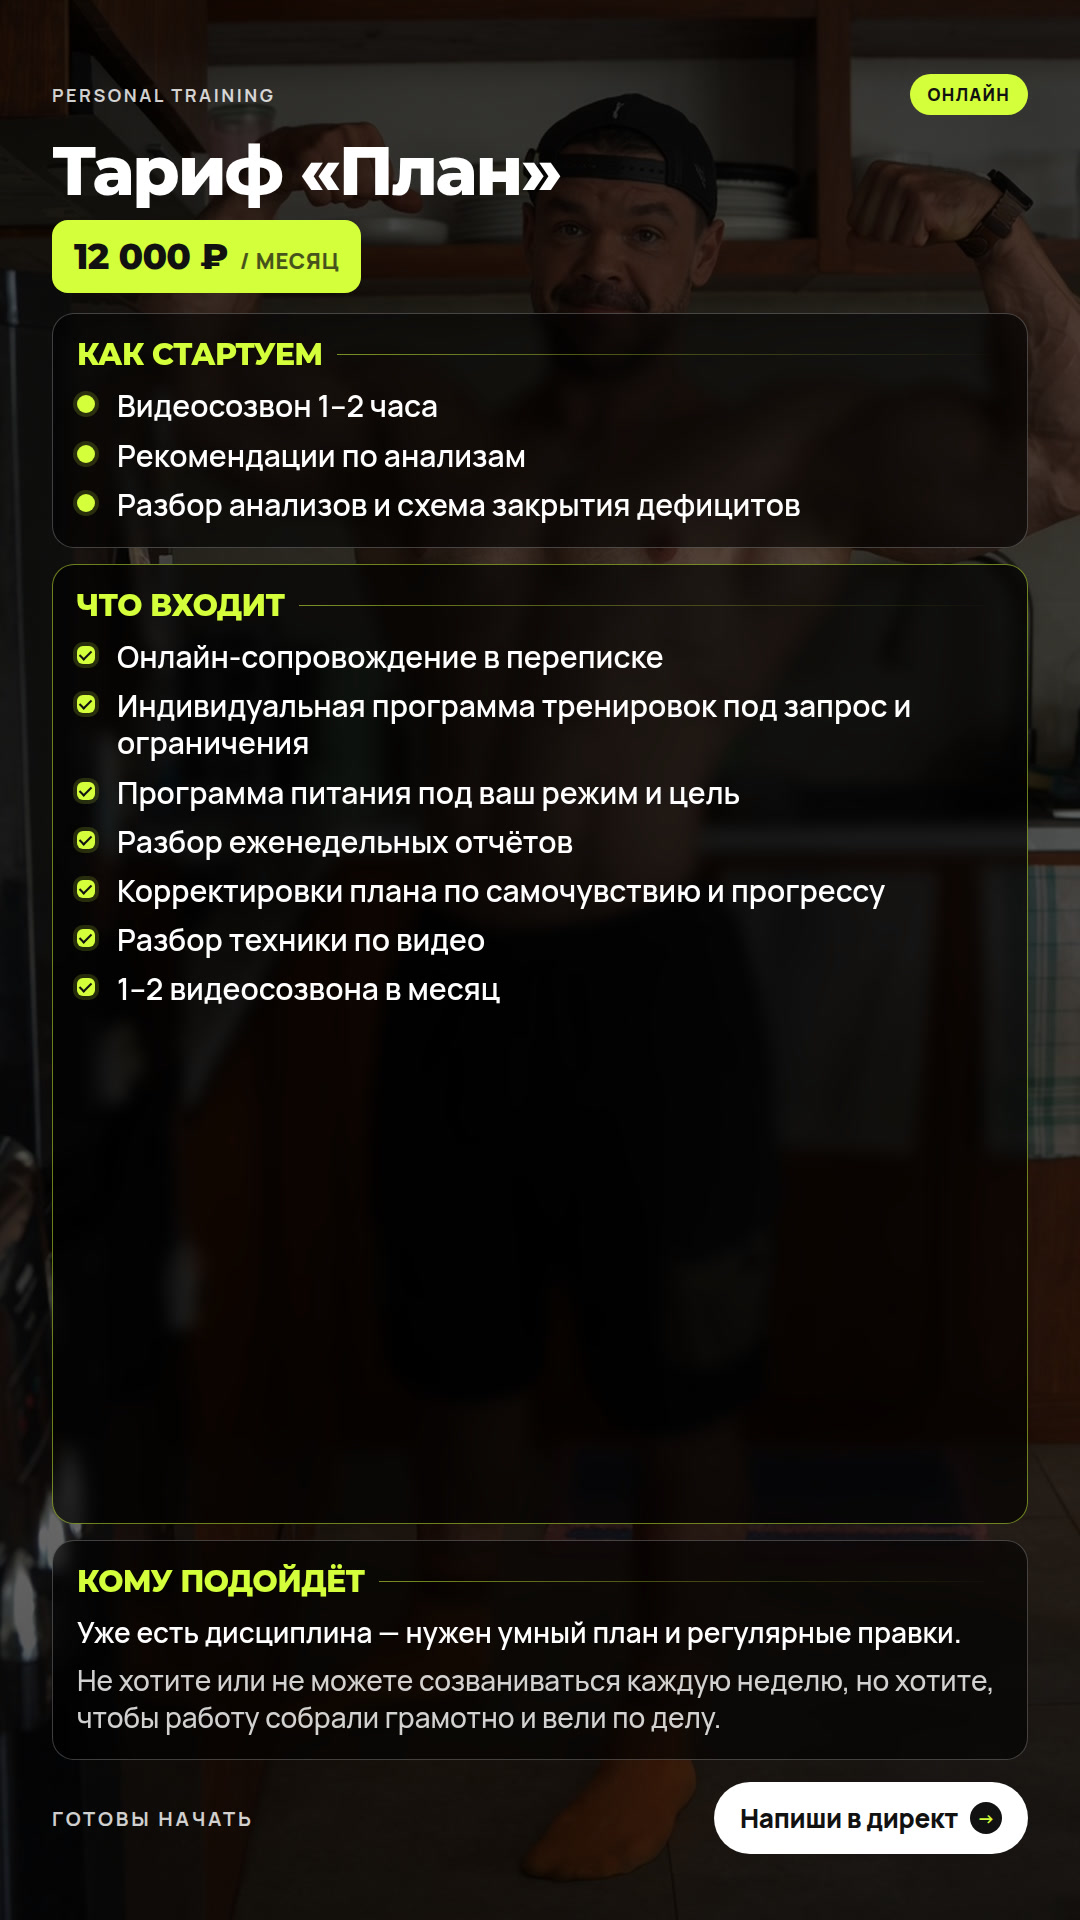
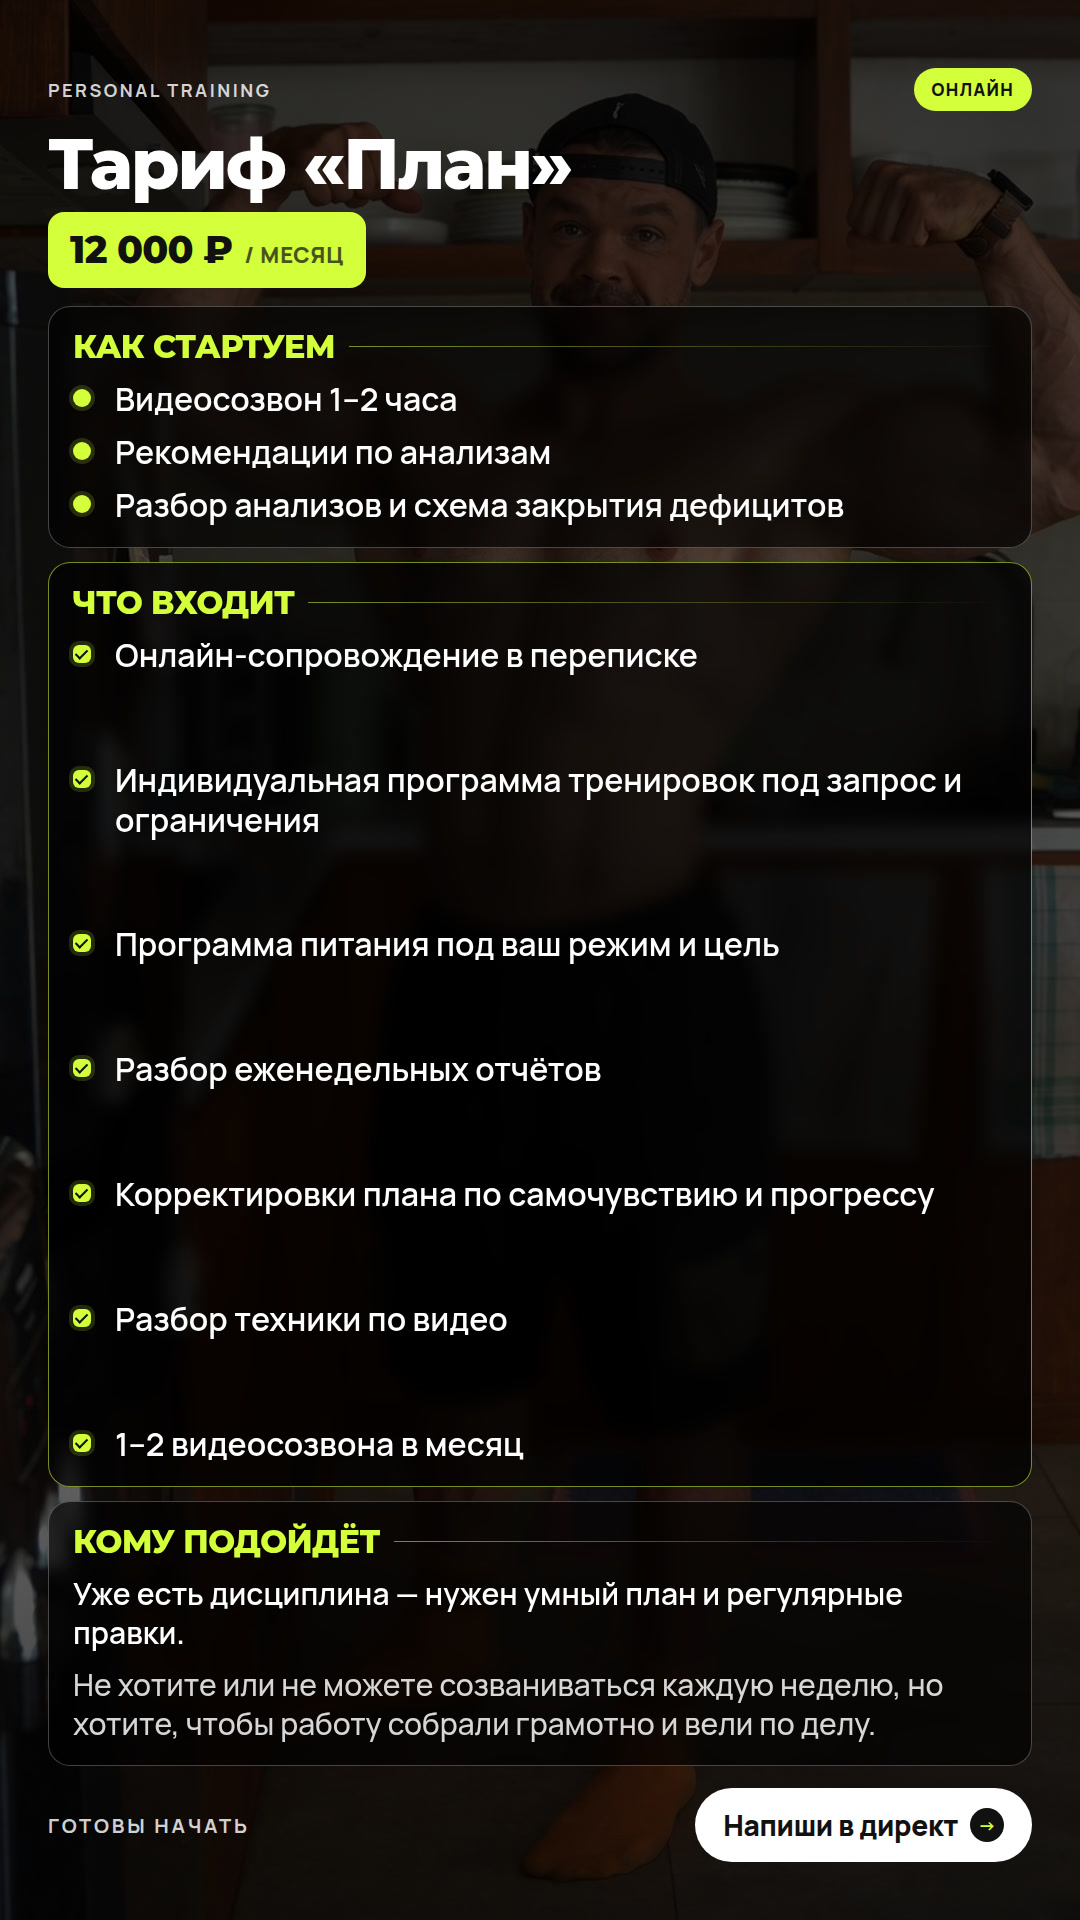
Tighten Plan story spacing with larger type
Distribute leftover vertical space across list items and bump body size
so empty card regions and footer gaps no longer look unused.

diff --git a/stories/tarif-plan.html b/stories/tarif-plan.html
@@ -8,11 +8,11 @@
   <style>
     :root {
       --text: #FFFFFF;
-      --muted: rgba(255, 255, 255, 0.82);
+      --muted: rgba(255, 255, 255, 0.84);
       --accent: #D4FF3A;
       --accent-soft: rgba(212, 255, 58, 0.16);
-      --line: rgba(255, 255, 255, 0.24);
-      --card: rgba(0, 0, 0, 0.58);
+      --line: rgba(255, 255, 255, 0.26);
+      --card: rgba(0, 0, 0, 0.62);
     }
 
     * { box-sizing: border-box; margin: 0; padding: 0; }
@@ -34,22 +34,22 @@
       background:
         linear-gradient(
           180deg,
-          rgba(0,0,0,0.72) 0%,
-          rgba(0,0,0,0.64) 38%,
-          rgba(0,0,0,0.52) 68%,
-          rgba(0,0,0,0.74) 100%
+          rgba(0,0,0,0.74) 0%,
+          rgba(0,0,0,0.66) 40%,
+          rgba(0,0,0,0.58) 70%,
+          rgba(0,0,0,0.78) 100%
         ),
-        url("bg-artur-1080.jpg") center 12% / cover no-repeat;
+        url("bg-artur-1080.jpg") center 10% / cover no-repeat;
     }
 
     .content {
       position: relative;
       z-index: 2;
       height: 100%;
-      padding: 74px 52px 66px;
+      padding: 68px 48px 58px;
       display: flex;
       flex-direction: column;
-      gap: 20px;
+      gap: 18px;
     }
 
     .top-row {
@@ -61,13 +61,14 @@
       font-size: 18px;
       font-weight: 700;
       color: var(--muted);
+      flex-shrink: 0;
     }
 
     .top-row .tag {
       color: #111;
       background: var(--accent);
       border-radius: 999px;
-      padding: 9px 18px;
+      padding: 10px 18px;
       letter-spacing: 0.08em;
       font-size: 17px;
       font-weight: 800;
@@ -76,14 +77,15 @@
     .header {
       display: flex;
       flex-direction: column;
-      gap: 14px;
+      gap: 12px;
+      flex-shrink: 0;
     }
 
     .title {
       font-family: "Montserrat", "Manrope", sans-serif;
       font-weight: 800;
-      font-size: 68px;
-      line-height: 1.05;
+      font-size: 70px;
+      line-height: 1.02;
       letter-spacing: -0.03em;
     }
 
@@ -97,7 +99,7 @@
       border-radius: 16px;
       padding: 14px 22px 15px;
       font-family: "Montserrat", "Manrope", sans-serif;
-      font-size: 36px;
+      font-size: 38px;
       font-weight: 800;
       letter-spacing: -0.02em;
     }
@@ -114,7 +116,7 @@
     .sections {
       display: flex;
       flex-direction: column;
-      gap: 16px;
+      gap: 14px;
       flex: 1;
       min-height: 0;
     }
@@ -124,13 +126,21 @@
       border-radius: 22px;
       background: var(--card);
       backdrop-filter: blur(8px);
-      padding: 22px 24px 24px;
+      padding: 20px 24px 22px;
+      display: flex;
+      flex-direction: column;
+    }
+
+    .card.start,
+    .card.who {
+      flex: 0 0 auto;
     }
 
     .card.main {
-      border-color: rgba(212, 255, 58, 0.5);
-      background: rgba(0, 0, 0, 0.66);
+      border-color: rgba(212, 255, 58, 0.55);
+      background: rgba(0, 0, 0, 0.7);
       flex: 1;
+      min-height: 0;
     }
 
     .section-label {
@@ -138,11 +148,12 @@
       align-items: center;
       gap: 14px;
       margin-bottom: 14px;
+      flex-shrink: 0;
     }
 
     .section-label h2 {
       font-family: "Montserrat", "Manrope", sans-serif;
-      font-size: 30px;
+      font-size: 32px;
       font-weight: 800;
       letter-spacing: -0.02em;
       color: var(--accent);
@@ -159,22 +170,29 @@
       list-style: none;
       display: flex;
       flex-direction: column;
-      gap: 12px;
+      gap: 14px;
+    }
+
+    .card.main ul {
+      flex: 1;
+      justify-content: space-between;
+      gap: 0;
+      min-height: 0;
     }
 
     li {
       display: grid;
-      grid-template-columns: 28px 1fr;
+      grid-template-columns: 30px 1fr;
       gap: 12px;
       align-items: start;
-      font-size: 30px;
-      line-height: 1.24;
+      font-size: 32px;
+      line-height: 1.22;
       font-weight: 600;
       color: var(--text);
     }
 
     li .mark {
-      margin-top: 8px;
+      margin-top: 9px;
       width: 18px;
       height: 18px;
       border-radius: 50%;
@@ -201,14 +219,14 @@
     }
 
     .who p {
-      font-size: 29px;
+      font-size: 30px;
       line-height: 1.28;
       font-weight: 600;
       color: var(--text);
     }
 
     .who p + p {
-      margin-top: 12px;
+      margin-top: 14px;
       color: var(--muted);
       font-weight: 500;
     }
@@ -218,7 +236,8 @@
       align-items: center;
       justify-content: space-between;
       gap: 18px;
-      margin-top: 2px;
+      flex-shrink: 0;
+      margin-top: 4px;
     }
 
     .cta-text {
@@ -236,15 +255,15 @@
       background: var(--text);
       color: #111;
       border-radius: 999px;
-      padding: 18px 26px;
-      font-size: 26px;
+      padding: 18px 28px;
+      font-size: 28px;
       font-weight: 800;
       letter-spacing: -0.01em;
     }
 
     .cta-pill .arrow {
-      width: 32px;
-      height: 32px;
+      width: 34px;
+      height: 34px;
       border-radius: 50%;
       background: #111;
       color: var(--accent);
@@ -270,7 +289,7 @@
       </header>
 
       <div class="sections">
-        <section class="card">
+        <section class="card start">
           <div class="section-label">
             <h2>Как стартуем</h2>
             <div class="rule"></div>
